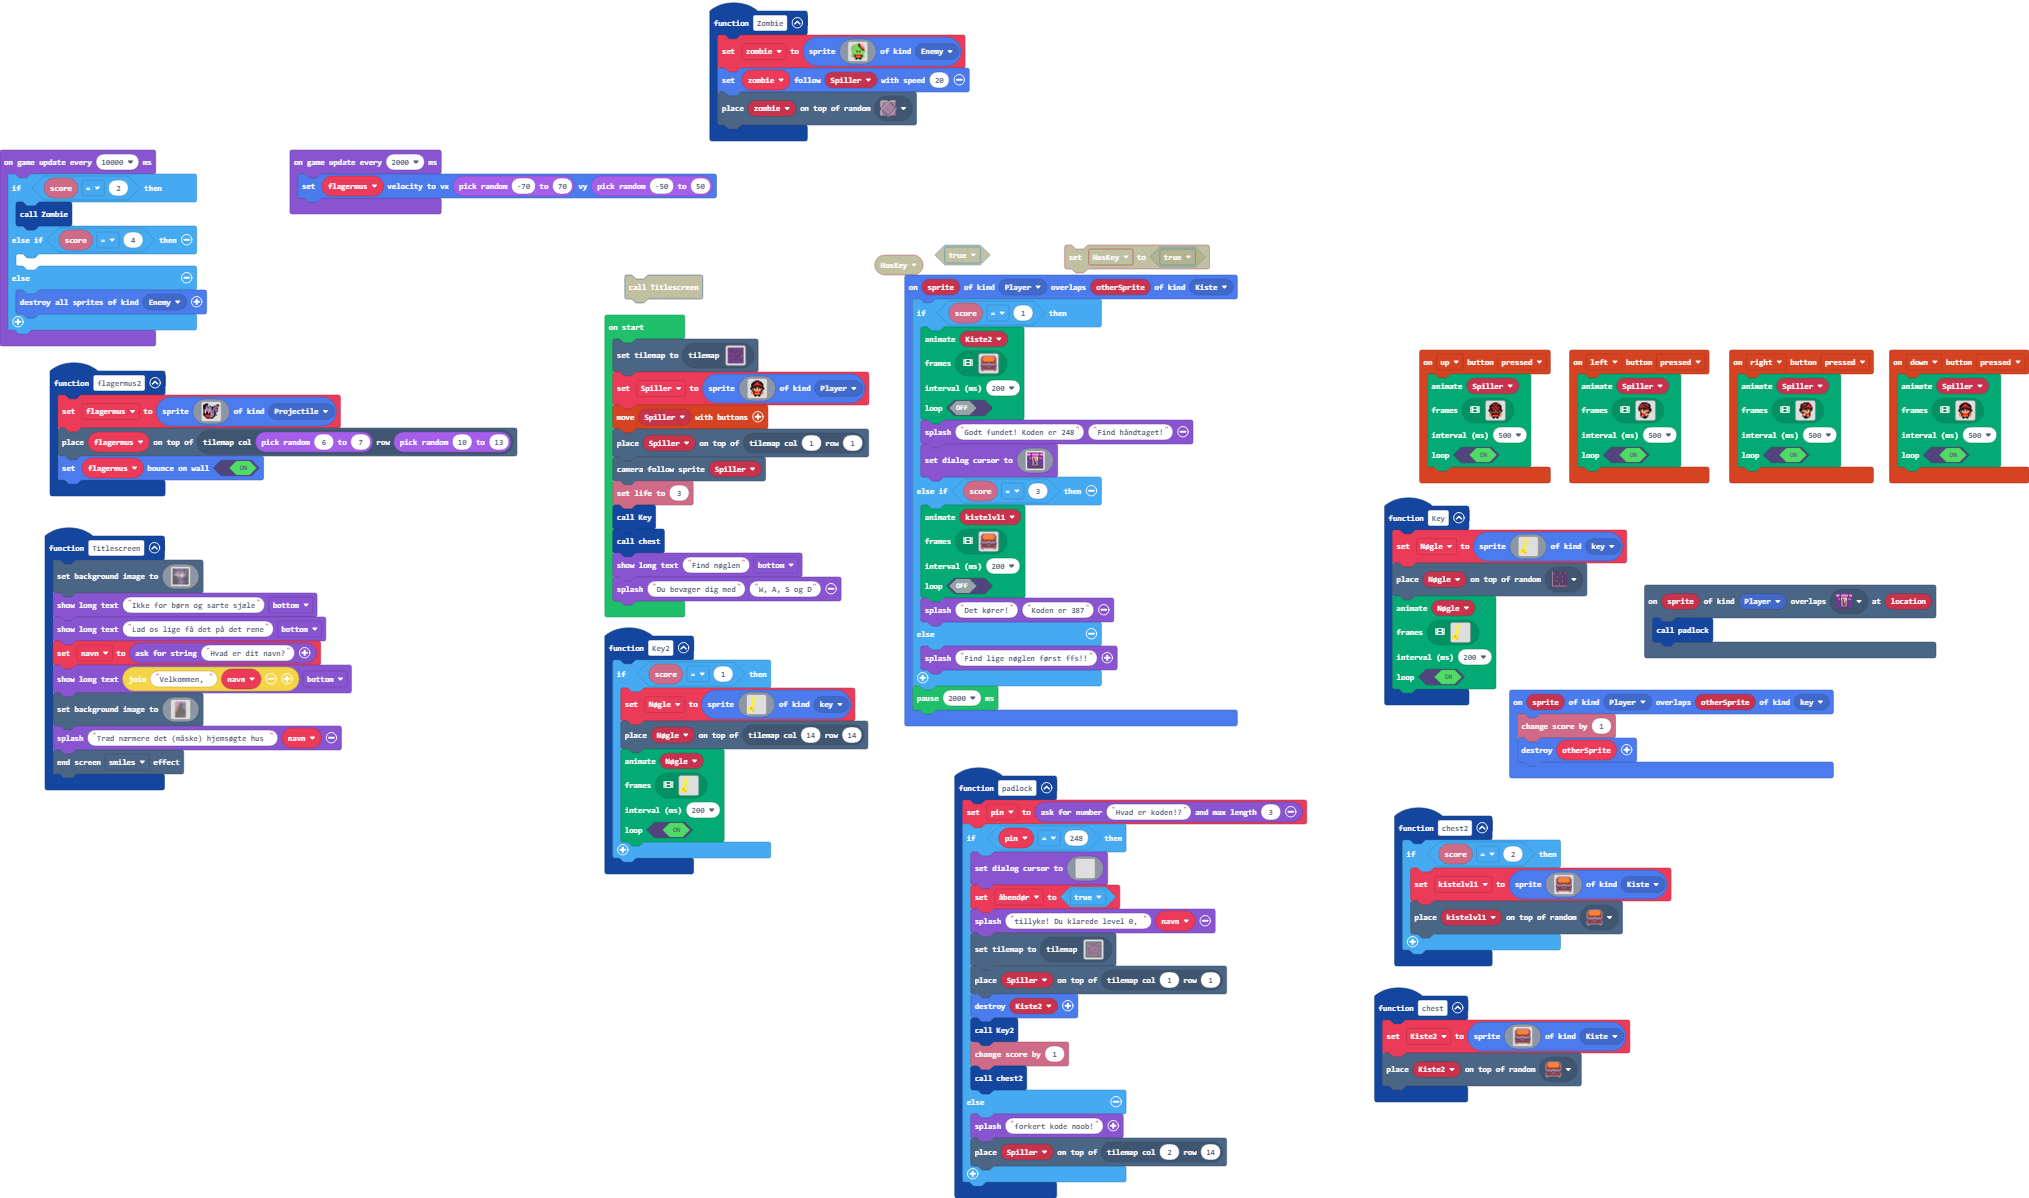
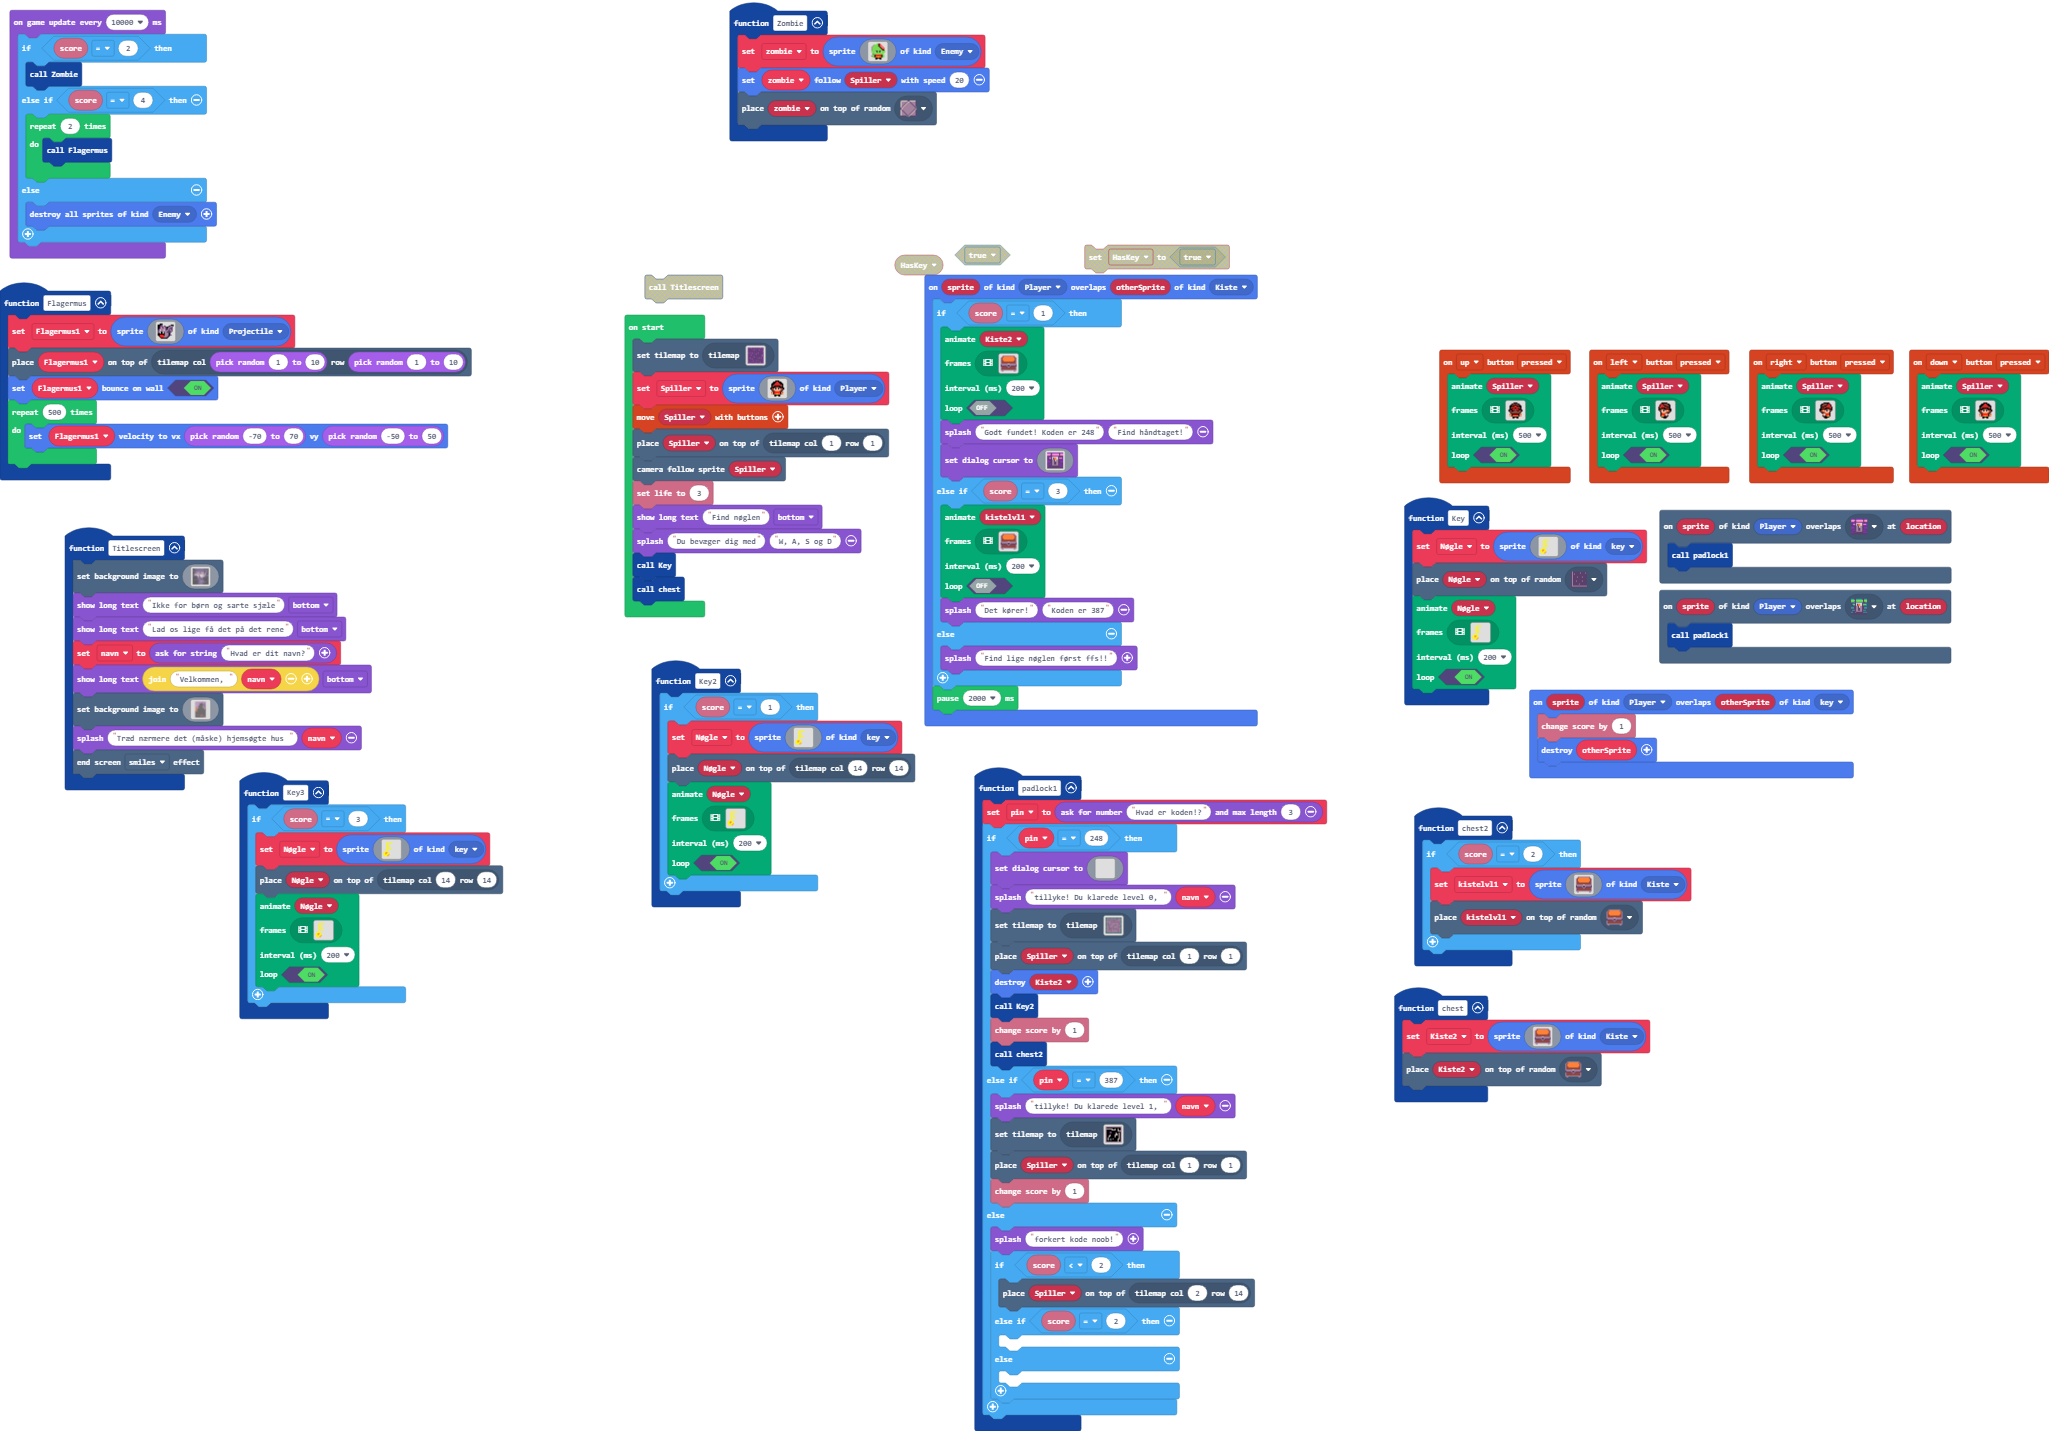
Update main.blocks, main.ts, tilemap.g.jres, tilemap.g.ts, images.g.jres, images.g.ts

diff --git a/tilemap.g.ts b/tilemap.g.ts
@@ -188,25 +188,6 @@ namespace myTiles {
 . . . . . . . . . . . . . . . . 
 . . . . . . . . . . . . . . . . 
 `, [myTiles.transparency16], TileScale.Sixteen);
-            case "level 1":
[1 lines of base64/hex data omitted]
-2 2 2 2 2 2 2 2 2 2 2 2 2 2 2 2 
-2 . . . . . . . . . . 2 . . . 2 
-2 . 2 2 2 2 2 2 2 2 2 2 . . . 2 
-2 . . . . . . . 2 . . . . . . 2 
-2 . . . . 2 2 2 2 2 2 2 2 2 . 2 
-2 . 2 . . . . . . . . . . 2 . 2 
-2 . 2 . . 2 . . . . . . . 2 . 2 
-2 . 2 2 2 . . . . 2 2 . . 2 . 2 
-2 . . 2 . . . . 2 . . . . . . 2 
-2 . . 2 . . . 2 . . . . 2 2 2 2 
-2 . . 2 2 2 . 2 . . . . . . . 2 
-2 . . 2 . 2 . 2 2 2 2 2 2 . . 2 
-2 . . 2 . 2 . . . . . . 2 . . 2 
-2 . . . . 2 . . . . . . 2 . . 2 
-2 . . . . . . . . . . . 2 . . 2 
-2 2 2 2 2 2 2 2 2 2 2 2 2 2 2 2 
-`, [myTiles.transparency16,sprites.dungeon.floorDark3,sprites.dungeon.floorDark5,sprites.dungeon.greenOuterNorthWest,sprites.dungeon.greenOuterNorth0,sprites.dungeon.greenOuterNorthEast,sprites.dungeon.greenOuterWest1,sprites.dungeon.greenOuterEast2,sprites.dungeon.greenOuterNorth2,sprites.dungeon.greenOuterWest2,sprites.dungeon.greenOuterSouthEast,sprites.dungeon.greenOuterSouth0,sprites.dungeon.greenOuterSouthWest,sprites.dungeon.greenOuterEast1,sprites.dungeon.floorDarkDiamond,sprites.dungeon.floorDark0,sprites.dungeon.chestClosed], TileScale.Sixteen);
             case "level12":
             case "level12":return tiles.createTilemap(hex`1000100000000000000000000000000000000000000000000000000000000000000000000000000000000000000000000000000000000000000000000000000000000000000000000000000000000000000000000000000000000000000000000000000000000000000000000000000000000000000000000000000000000000000000000000000000000000000000000000000000000000000000000000000000000000000000000000000000000000000000000000000000000000000000000000000000000000000000000000000000000000000000000000000000000000000000000000000000000000000000000000000000000000000000000000000000000000`, img`
 . . . . . . . . . . . . . . . . 
@@ -245,6 +226,25 @@ namespace myTiles {
 . . . . . . . . . . . . . . . . 
 . . . . . . . . . . . . . . . . 
 `, [myTiles.transparency16], TileScale.Sixteen);
+            case "level14":
+            case "level14":return tiles.createTilemap(hex`1000100000000000000000000000000000000000000000000000000000000000000000000000000000000000000000000000000000000000000000000000000000000000000000000000000000000000000000000000000000000000000000000000000000000000000000000000000000000000000000000000000000000000000000000000000000000000000000000000000000000000000000000000000000000000000000000000000000000000000000000000000000000000000000000000000000000000000000000000000000000000000000000000000000000000000000000000000000000000000000000000000000000000000000000000000000000000`, img`
+. . . . . . . . . . . . . . . . 
+. . . . . . . . . . . . . . . . 
+. . . . . . . . . . . . . . . . 
+. . . . . . . . . . . . . . . . 
+. . . . . . . . . . . . . . . . 
+. . . . . . . . . . . . . . . . 
+. . . . . . . . . . . . . . . . 
+. . . . . . . . . . . . . . . . 
+. . . . . . . . . . . . . . . . 
+. . . . . . . . . . . . . . . . 
+. . . . . . . . . . . . . . . . 
+. . . . . . . . . . . . . . . . 
+. . . . . . . . . . . . . . . . 
+. . . . . . . . . . . . . . . . 
+. . . . . . . . . . . . . . . . 
+. . . . . . . . . . . . . . . . 
+`, [myTiles.transparency16], TileScale.Sixteen);
             case "level2":
[1 lines of base64/hex data omitted]
 2 2 2 2 2 2 2 2 2 2 2 2 2 2 2 2 
@@ -264,6 +264,44 @@ namespace myTiles {
 2 . . . . . . . . . . . 2 . . 2 
 2 2 2 2 2 2 2 2 2 2 2 2 2 2 2 2 
 `, [myTiles.transparency16,sprites.builtin.forestTiles10,sprites.dungeon.floorDark0,sprites.dungeon.purpleInnerSouthEast,sprites.dungeon.purpleInnerSouthWest,sprites.dungeon.purpleInnerNorthWest,sprites.dungeon.purpleInnerNorthEast,sprites.dungeon.greenInnerSouthWest,sprites.dungeon.greenInnerSouthEast,sprites.dungeon.greenInnerNorthWest,sprites.dungeon.greenInnerNorthEast,sprites.dungeon.doorLockedWest,sprites.dungeon.doorLockedEast,sprites.dungeon.doorLockedNorth,sprites.dungeon.floorLightMoss], TileScale.Sixteen);
+            case "level 1":
[1 lines of base64/hex data omitted]
+2 2 2 2 2 2 2 2 2 2 2 2 2 2 2 2 
+2 . . . . . . . . . . 2 . . . 2 
+2 . 2 2 2 2 2 2 2 2 2 2 . . . 2 
+2 . . . . . . . 2 . . . . . . 2 
+2 . . . . 2 2 2 2 2 2 2 2 2 . 2 
+2 . 2 . . . . . . . . . . 2 . 2 
+2 . 2 . . 2 . . . . . . . 2 . 2 
+2 . 2 2 2 . . . . 2 2 . . 2 . 2 
+2 . . 2 . . . . 2 . . . . . . 2 
+2 . . 2 . . . 2 . . . . 2 2 2 2 
+2 . . 2 2 2 . 2 . . . . . . . 2 
+2 . . 2 . 2 . 2 2 2 2 2 2 . . 2 
+2 . . 2 . 2 . . . . . . 2 . . 2 
+2 . . . . 2 . . . . . . 2 . . 2 
+2 . . . . . . . . . . . 2 . . 2 
+2 2 2 2 2 2 2 . 2 2 2 2 2 2 2 2 
+`, [myTiles.transparency16,sprites.dungeon.floorDark3,sprites.dungeon.floorDark5,sprites.dungeon.greenOuterNorthWest,sprites.dungeon.greenOuterNorth0,sprites.dungeon.greenOuterNorthEast,sprites.dungeon.greenOuterWest1,sprites.dungeon.greenOuterEast2,sprites.dungeon.greenOuterNorth2,sprites.dungeon.greenOuterWest2,sprites.dungeon.greenOuterSouthEast,sprites.dungeon.greenOuterSouth0,sprites.dungeon.greenOuterSouthWest,sprites.dungeon.greenOuterEast1,sprites.dungeon.floorDarkDiamond,sprites.dungeon.floorDark0,sprites.dungeon.chestClosed,sprites.dungeon.greenSwitchUp], TileScale.Sixteen);
+            case "level15":
+            case "level15":return tiles.createTilemap(hex`1000100000000000000000000000000000000000000000000000000000000000000000000000000000000000000000000000000000000000000000000000000000000000000000000000000000000000000000000000000000000000000000000000000000000000000000000000000000000000000000000000000000000000000000000000000000000000000000000000000000000000000000000000000000000000000000000000000000000000000000000000000000000000000000000000000000000000000000000000000000000000000000000000000000000000000000000000000000000000000000000000000000000000000000000000000000000000`, img`
+. . . . . . . . . . . . . . . . 
+. . . . . . . . . . . . . . . . 
+. . . . . . . . . . . . . . . . 
+. . . . . . . . . . . . . . . . 
+. . . . . . . . . . . . . . . . 
+. . . . . . . . . . . . . . . . 
+. . . . . . . . . . . . . . . . 
+. . . . . . . . . . . . . . . . 
+. . . . . . . . . . . . . . . . 
+. . . . . . . . . . . . . . . . 
+. . . . . . . . . . . . . . . . 
+. . . . . . . . . . . . . . . . 
+. . . . . . . . . . . . . . . . 
+. . . . . . . . . . . . . . . . 
+. . . . . . . . . . . . . . . . 
+. . . . . . . . . . . . . . . . 
+`, [myTiles.transparency16], TileScale.Sixteen);
         }
         return null;
     })

diff --git a/main.ts b/main.ts
@@ -20,6 +20,9 @@ function Titlescreen () {
     game.splash("Træd nærmere det (måske) hjemsøgte hus ", navn)
     effects.smiles.endScreenEffect()
 }
+scene.onOverlapTile(SpriteKind.Player, sprites.dungeon.greenSwitchUp, function (sprite, location) {
+    padlock1()
+})
 function Key () {
     Nøgle = sprites.create(assets.image`nøglee`, SpriteKind.key)
     tiles.placeOnRandomTile(Nøgle, sprites.dungeon.darkGroundSouthWest0)
@@ -90,23 +93,6 @@ sprites.onOverlap(SpriteKind.Player, SpriteKind.Kiste, function (sprite, otherSp
     }
     pause(2000)
 })
-function padlock () {
-    pin = game.askForNumber("Hvad er koden!?", 3)
-    if (pin == 248) {
-        game.setDialogCursor(assets.image`nøgle`)
-        åbendør = true
-        game.splash("tillyke! Du klarede level 0, ", navn)
-        tiles.setCurrentTilemap(tilemap`level 1`)
-        tiles.placeOnTile(Spiller, tiles.getTileLocation(1, 1))
-        sprites.destroy(Kiste2)
-        Key2()
-        info.changeScoreBy(1)
-        chest2()
-    } else {
-        game.splash("forkert kode noob!")
-        tiles.placeOnTile(Spiller, tiles.getTileLocation(2, 14))
-    }
-}
 function chest2 () {
     if (info.score() == 2) {
         kistelvl1 = sprites.create(assets.image`LukketKiste`, SpriteKind.Kiste)
@@ -121,20 +107,61 @@ controller.down.onEvent(ControllerButtonEvent.Pressed, function () {
     true
     )
 })
-function flagermus2 () {
-    flagermus = sprites.create(assets.image`vampyr`, SpriteKind.Projectile)
-    tiles.placeOnTile(flagermus, tiles.getTileLocation(randint(6, 7), randint(10, 13)))
-    flagermus.setBounceOnWall(true)
-}
 scene.onOverlapTile(SpriteKind.Player, sprites.dungeon.purpleSwitchUp, function (sprite, location) {
-    padlock()
+    padlock1()
 })
 sprites.onOverlap(SpriteKind.Player, SpriteKind.key, function (sprite, otherSprite) {
     info.changeScoreBy(1)
     sprites.destroy(otherSprite)
 })
-let flagermus: Sprite = null
-let åbendør = false
+function Key3 () {
+    if (info.score() == 3) {
+        Nøgle = sprites.create(assets.image`nøglee`, SpriteKind.key)
+        tiles.placeOnTile(Nøgle, tiles.getTileLocation(14, 14))
+        animation.runImageAnimation(
+        Nøgle,
+        assets.animation`nøgleanimation`,
+        200,
+        true
+        )
+    }
+}
+function padlock1 () {
+    pin = game.askForNumber("Hvad er koden!?", 3)
+    if (pin == 248) {
+        game.setDialogCursor(assets.image`nøgle`)
+        game.splash("tillyke! Du klarede level 0, ", navn)
+        tiles.setCurrentTilemap(tilemap`level 1`)
+        tiles.placeOnTile(Spiller, tiles.getTileLocation(1, 1))
+        sprites.destroy(Kiste2)
+        Key2()
+        info.changeScoreBy(1)
+        chest2()
+    } else if (pin == 387) {
+        game.splash("tillyke! Du klarede level 1, ", navn)
+        tiles.setCurrentTilemap(tilemap`level2`)
+        tiles.placeOnTile(Spiller, tiles.getTileLocation(1, 1))
+        info.changeScoreBy(1)
+    } else {
+        game.splash("forkert kode noob!")
+        if (info.score() < 2) {
+            tiles.placeOnTile(Spiller, tiles.getTileLocation(2, 14))
+        } else if (info.score() == 2) {
+        	
+        } else {
+        	
+        }
+    }
+}
+function Flagermus () {
+    Flagermus1 = sprites.create(assets.image`flagermusen`, SpriteKind.Projectile)
+    tiles.placeOnTile(Flagermus1, tiles.getTileLocation(randint(1, 10), randint(1, 10)))
+    Flagermus1.setBounceOnWall(true)
+    for (let index = 0; index < 500; index++) {
+        Flagermus1.setVelocity(randint(-70, 70), randint(-50, 50))
+    }
+}
+let Flagermus1: Sprite = null
 let pin = 0
 let kistelvl1: Sprite = null
 let Kiste2: Sprite = null
@@ -165,18 +192,17 @@ controller.moveSprite(Spiller)
 tiles.placeOnTile(Spiller, tiles.getTileLocation(1, 1))
 scene.cameraFollowSprite(Spiller)
 info.setLife(3)
-Key()
-chest()
 game.showLongText("Find nøglen", DialogLayout.Bottom)
 game.splash("Du bevæger dig med", "W, A, S og D")
-game.onUpdateInterval(2000, function () {
-    flagermus.setVelocity(randint(-70, 70), randint(-50, 50))
-})
+Key()
+chest()
 game.onUpdateInterval(10000, function () {
     if (info.score() == 2) {
         Zombie()
     } else if (info.score() == 4) {
-    	
+        for (let index = 0; index < 2; index++) {
+            Flagermus()
+        }
     } else {
         sprites.destroyAllSpritesOfKind(SpriteKind.Enemy)
     }

diff --git a/images.g.ts b/images.g.ts
@@ -567,7 +567,7 @@ ffffffffffffffffffffffffffffffffffffffffffffffffffffffffffffffffffffffffffffffff
 . . . . . f f . . f f . . . . 
 `;
             case "image8":
-            case "vampyr":return img`
+            case "flagermusen":return img`
 . . f f f . . . . . . . . . . . 
 f f f c c . . . . . . . . f f f 
 f f c c c . c c . . . f c b b c 
